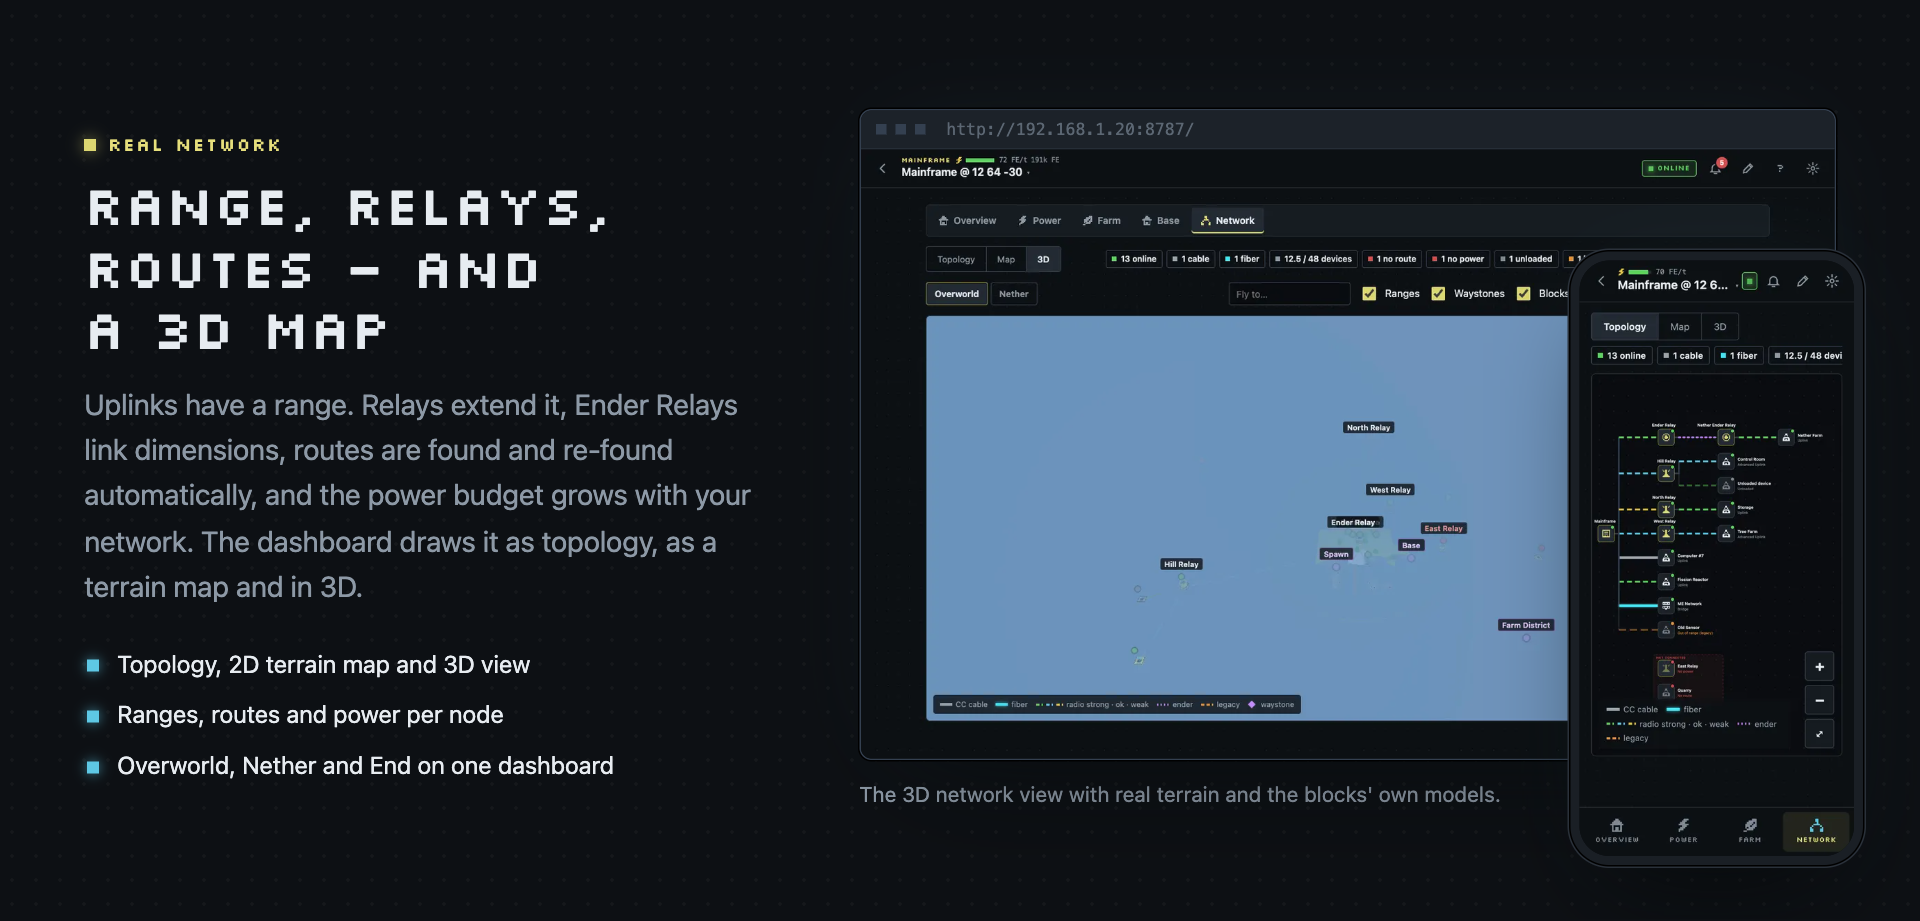
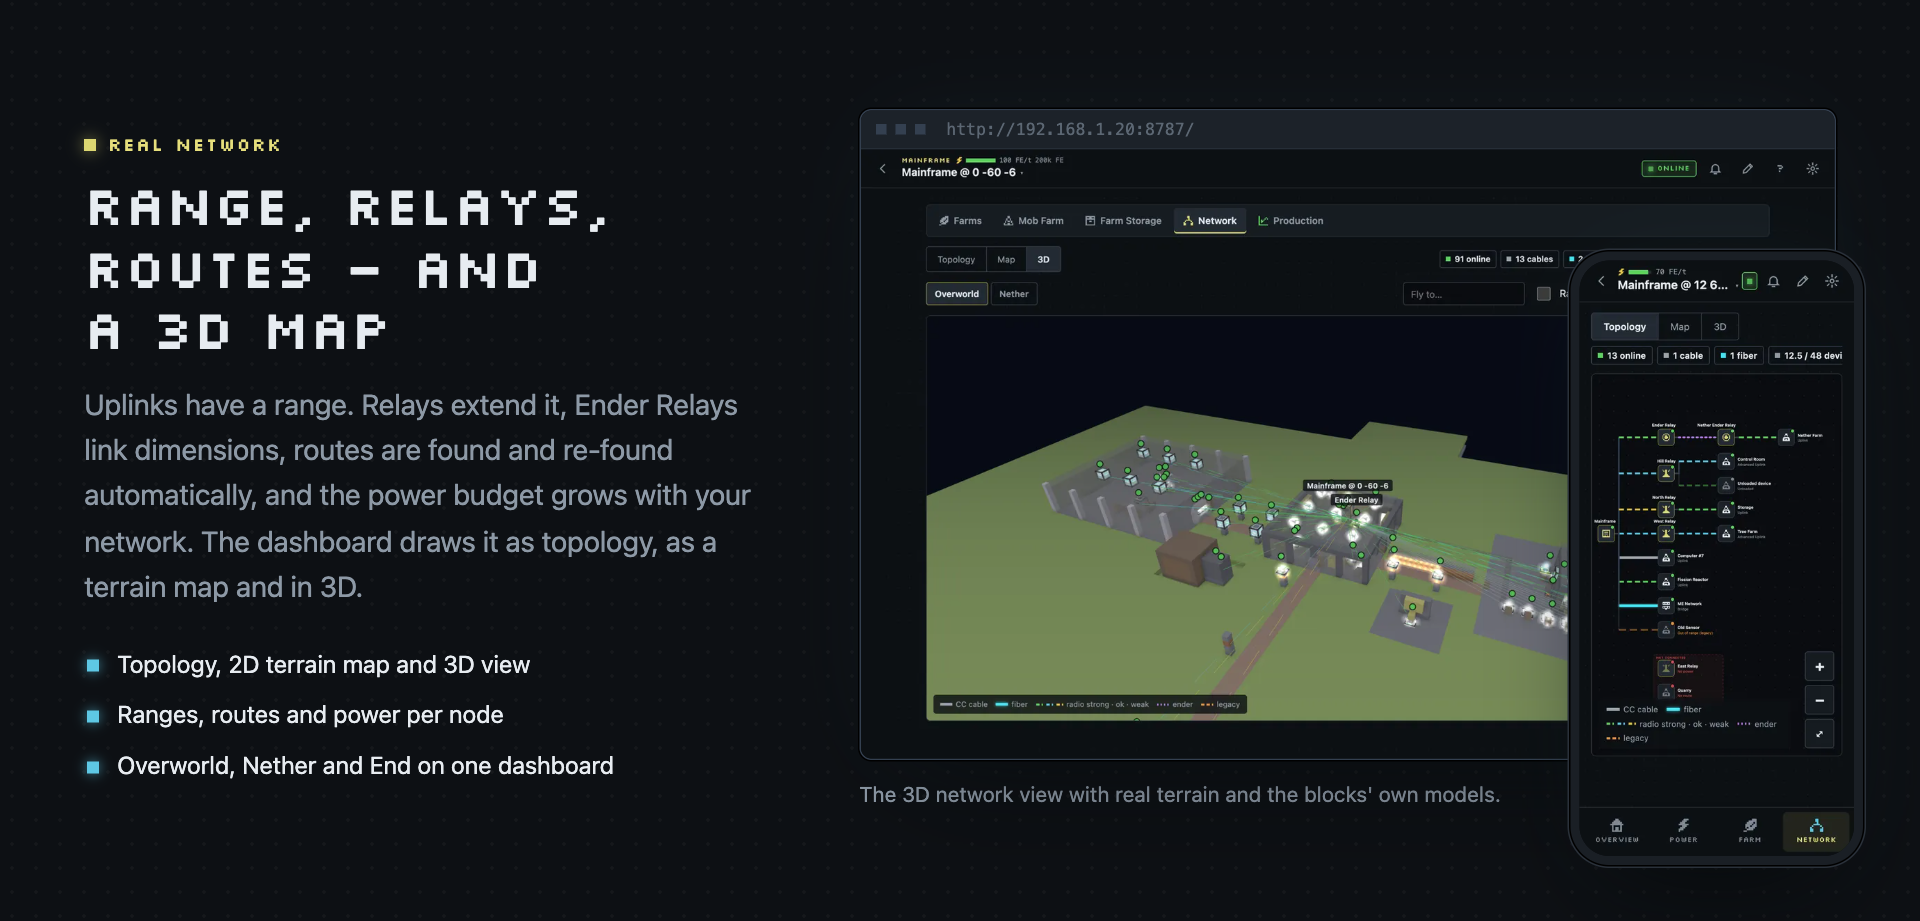
Website and README: measured performance numbers, real 3D shots of the showcase base, English as the default language

Changed region(s): [[0.4688, 0.1824, 0.8438, 0.7904]]

diff --git a/README.md b/README.md
@@ -112,6 +112,21 @@ Full reference: [cccloud.dev/en/docs](https://cccloud.dev/en/docs/), `/docs` on 
 - Server permissions via the NeoForge PermissionAPI (`cccloud.*` nodes) – works with LuckPerms and FTB Ranks.
 - Threat model and reviews: [`docs/SECURITY.md`](docs/SECURITY.md) · Found a vulnerability? See [SECURITY.md](SECURITY.md) – please report privately.
 
+## Performance & stability
+
+Measured with the mod's own benchmarks in a real NeoForge server (10-core desktop CPU; a Minecraft tick has 50 ms):
+
+| Scenario | Result |
+|---|---|
+| One mainframe, 500 devices, 10 open dashboards | **0.5–1 ms** per tick |
+| Stress test: 1,500 devices on 11 mainframes, 100 rules, 50 browsers, ~5,500 value changes/s | **1.6 ms** per tick on average (was 6.4 ms before the scaling work) |
+| Soak test: 6 hours, 20 browsers at once | 20 TPS throughout, **0 errors**, no memory growth |
+| Dashboard of a 500-device base | first card after **0.3 s**, 12 messages/s per browser, 112 KB snapshot (compressed) |
+| 3D view of a whole base (536 sections) | loads in **2 s**, reopens in under 1 s |
+
+How it is measured, the remaining limits and the server settings for big bases: [`docs/SPEC.md` → Scaling](docs/SPEC.md) and
+[Big servers](https://cccloud.dev/en/docs/security/#big-servers).
+
 ## Compatibility
 
 - Minecraft **26.1.2**, NeoForge **26.1.2.109+**, CC: Tweaked **1.120.0+**, Java **25**
